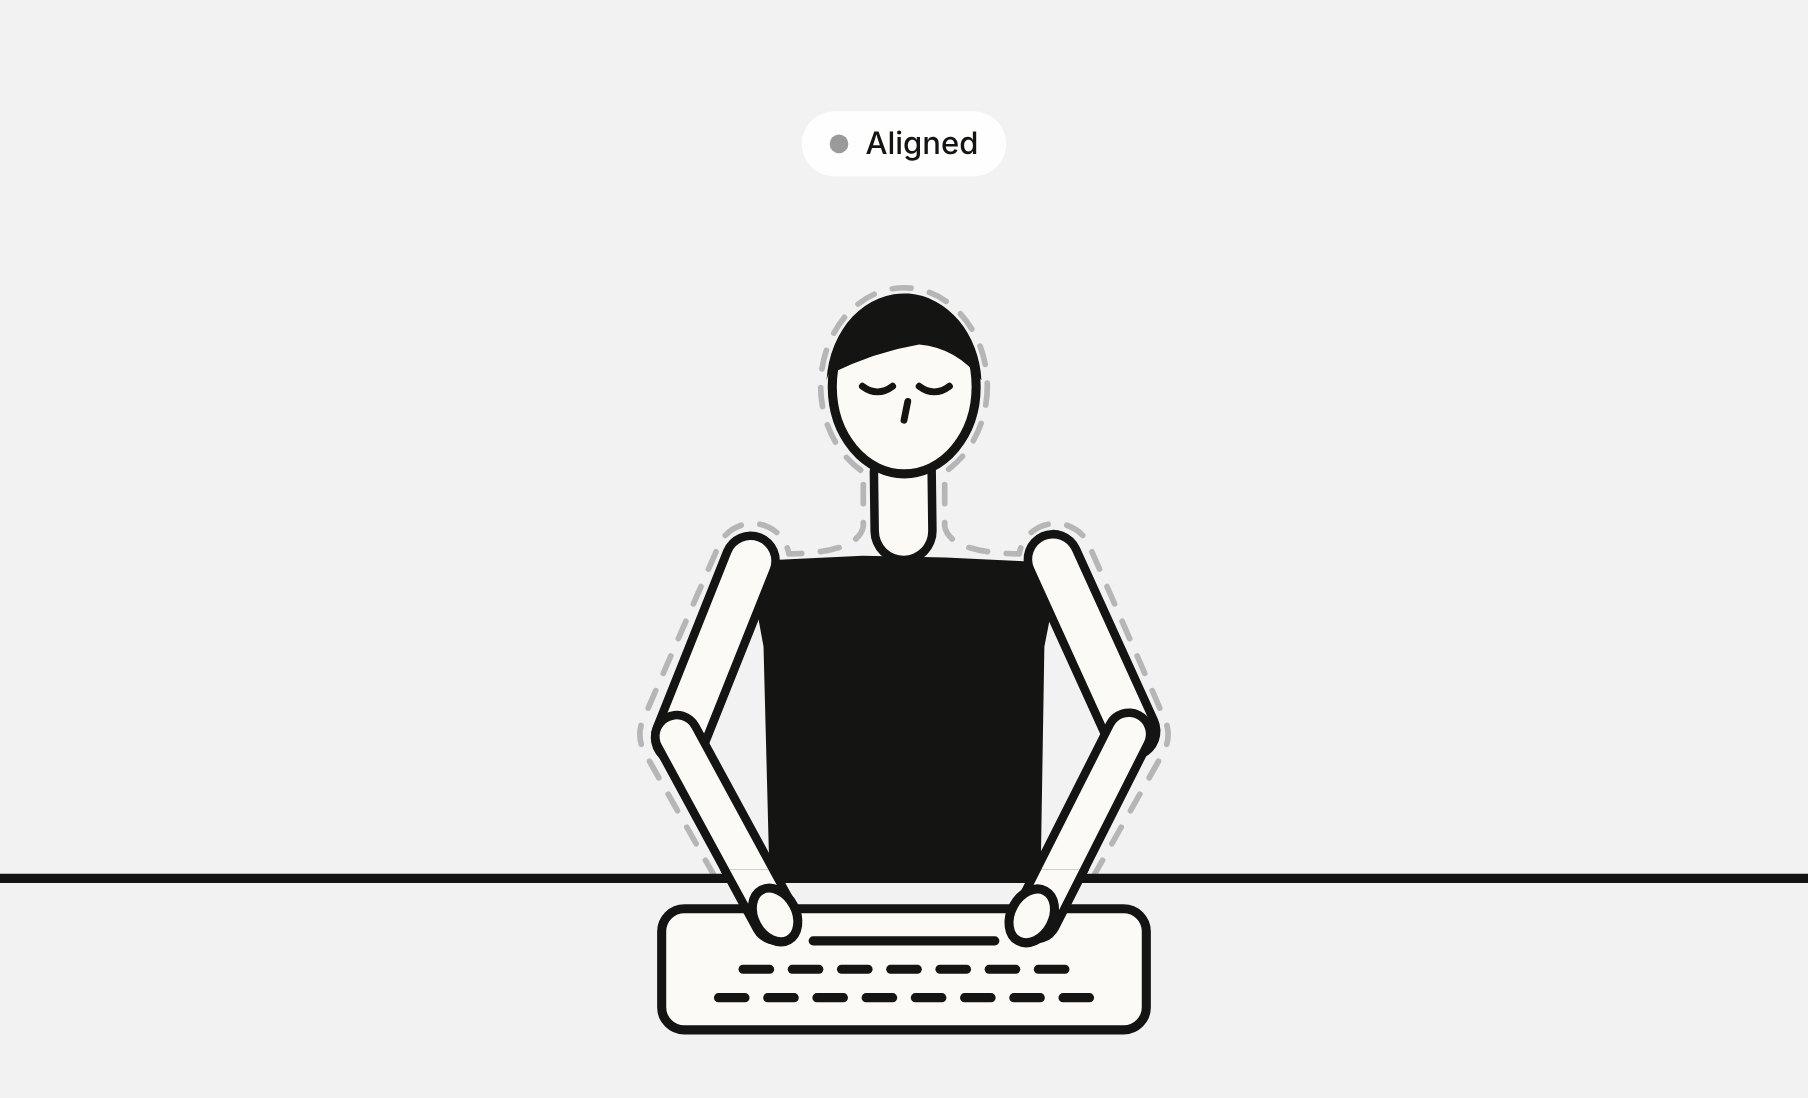
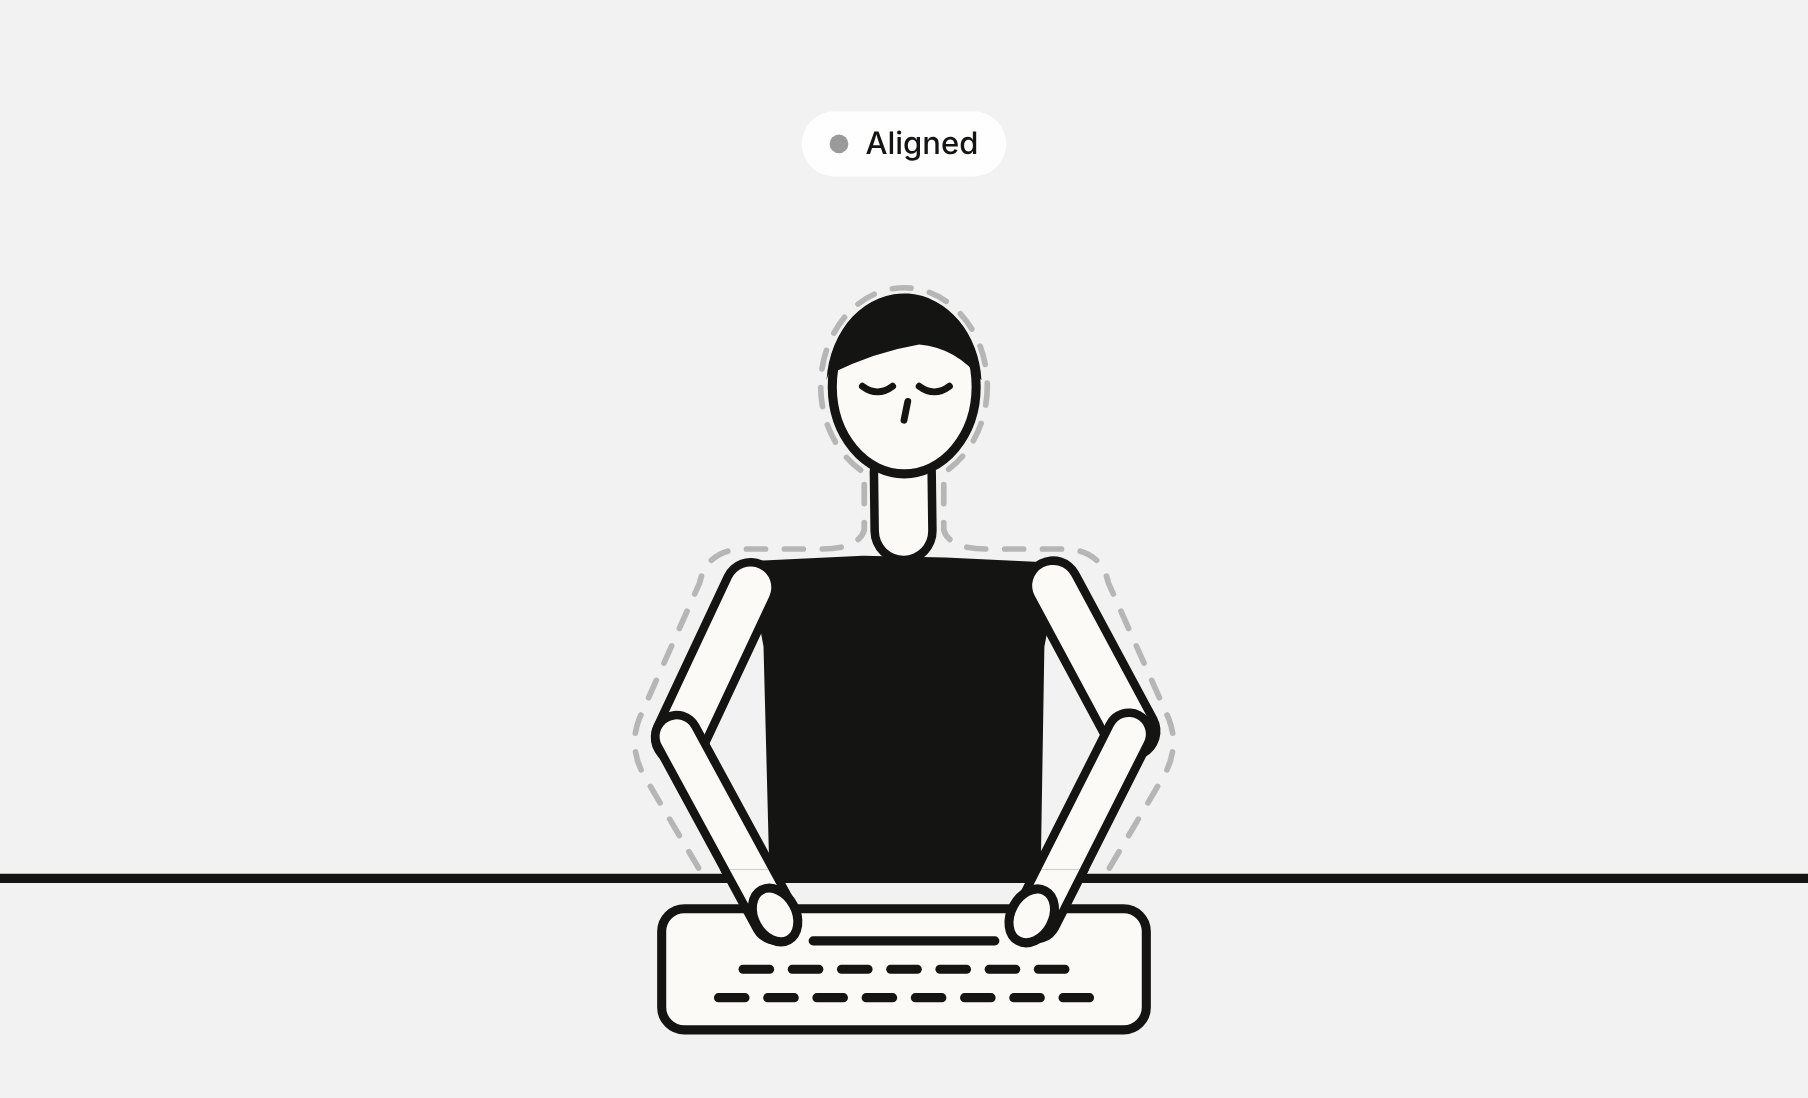
Poise thumbnail: upper arms sit flush with the shoulders, flat reference outline
Claude-Session: https://claude.ai/code/session_01UHSuVgL78FHF3ZiXhWhDac

diff --git a/poise-motion.html b/poise-motion.html
@@ -75,7 +75,8 @@ function drawFigure(ctx, P, { j = () => 0, ink, paper }) {
   ctx.restore();
   }
   // arms resting on the desk
-  for (const [s0, e, w] of [[SR, P.eR, P.wR], [SL, P.eL, P.wL]]) {
+  // arms hang from just below the shoulder line, so the top of the arm sits flush with the tee
+  for (const [s0, e, w] of [[[SR[0], SR[1] + 7], P.eR, P.wR], [[SL[0], SL[1] + 7], P.eL, P.wL]]) {
     const el = [e[0], e[1] + drop], wr = [w[0], w[1] + drop];
     limb(s0, el, 11); limb(el, wr, 9);
     ctx.fillStyle = paper; ctx.strokeStyle = ink; ctx.lineWidth = 2.4;
@@ -173,14 +174,15 @@ function frame(now) {
   ctx.beginPath();
   // traced around the aligned figure, about 3 units outside it: neck, over the shoulder joint,
   // down the upper arm, around the elbow and along the forearm to the desk
+  // a calm, flat outline: straight across the shoulders, a soft corner, then down the arms
   for (const m of [-1, 1]) {
-    const A = a => m > 0 ? a * Math.PI / 180 : (180 - a) * Math.PI / 180, ccw = m < 0;   // mirror angles for the left side
-    ctx.moveTo(10.75 * m, -136); ctx.lineTo(10.75 * m, -125);
-    ctx.quadraticCurveTo(12 * m, -118, 30.4 * m, -117.7);
-    ctx.arc(40 * m, -116, 9.75, A(-170), A(-23.5), ccw);          // over the shoulder joint
-    ctx.lineTo(68.9 * m, -73.9);                                  // down the upper arm
-    ctx.arc(60 * m, -70, 9.75, A(-23.5), A(28.4), ccw);           // around the elbow
-    ctx.lineTo(41.7 * m, -17.8);                                  // along the forearm to the desk
+    ctx.moveTo(10.5 * m, -136); ctx.lineTo(10.5 * m, -124);
+    ctx.quadraticCurveTo(12 * m, -119, 22 * m, -119);
+    ctx.lineTo(42 * m, -119);
+    ctx.quadraticCurveTo(52 * m, -119, 54 * m, -110);
+    ctx.lineTo(70 * m, -74);
+    ctx.quadraticCurveTo(73 * m, -66, 68 * m, -58);
+    ctx.lineTo(42 * m, -14);
   }
   ctx.stroke(); ctx.setLineDash([]);
   ctx.restore();
